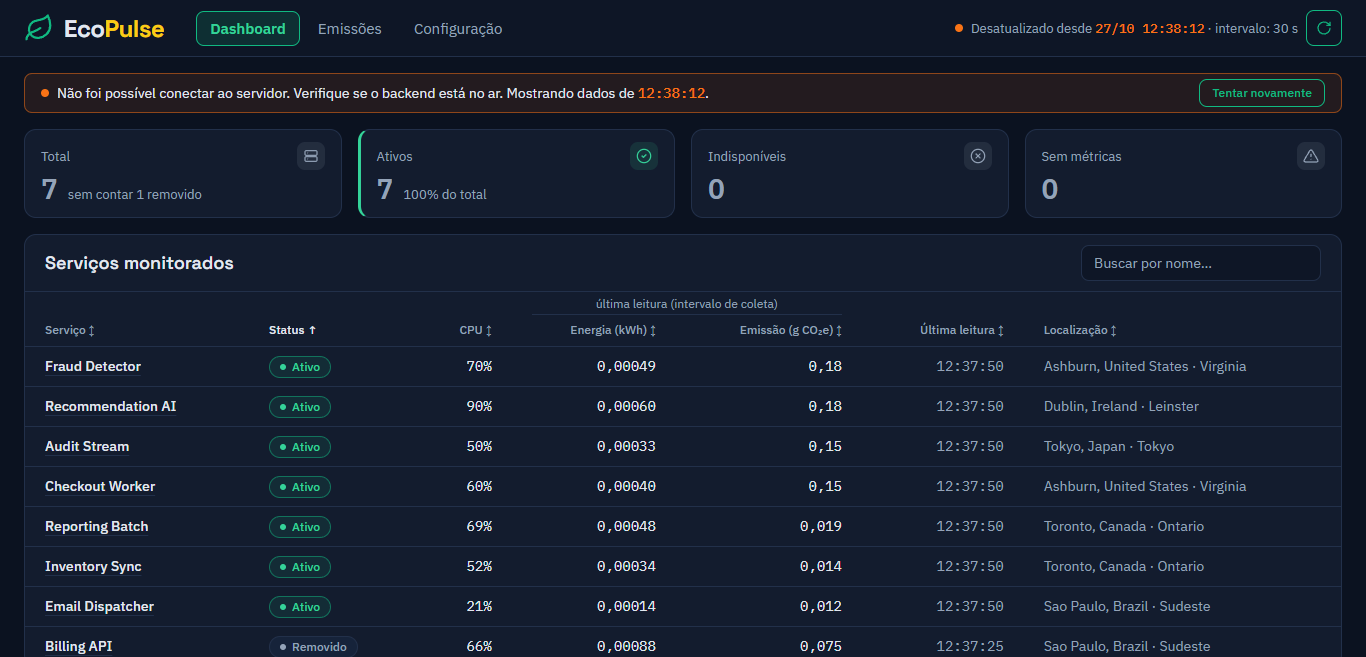
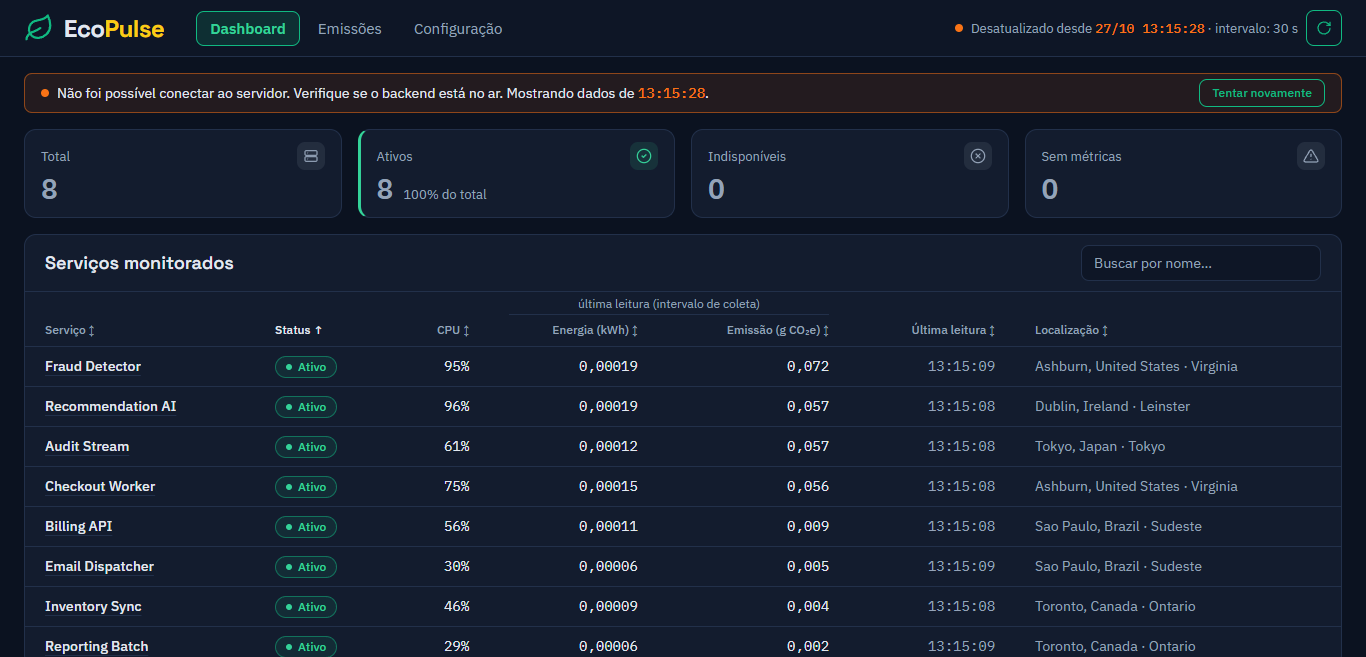
docs(frontend): documenta as casas fixas (#203) [RF09]
frontend/README.md (§ Energia e emissão na tabela) e README raiz (RF07 e
legendas) passam a descrever a resolução fixa no lugar dos 2 algarismos
significativos. Prints refeitos com o backend real em 27/10/2026.

diff --git a/README.md b/README.md
@@ -42,7 +42,7 @@ O desenvolvimento acontece na branch `develop`; cada funcionalidade entra nesta 
 
   ![Tabela de serviços monitorados com o backend real](docs/img/sprint-2-dashboard-backend-real.png)
 
-  _Tabela ligada ao backend real (`docker compose`) em 27/10/2026, numa janela de 1366×657: ordem inicial por gravidade (o serviço removido fica no fim), status logo depois do nome, energia e emissão com 2 algarismos significativos e as 8 linhas visíveis sem rolar (#203)._
+  _Tabela ligada ao backend real (`docker compose`) em 27/10/2026, numa janela de 1366×657: ordem inicial por gravidade, status logo depois do nome, energia e emissão com casas fixas (kWh com 5, g com 3) e as 8 linhas visíveis sem rolar (#203)._
 
 - **RF08, RF09 — Cards de estado dos serviços (#21, PR #202):** acima da tabela, cards com o total de serviços monitorados e quantos estão ativos, indisponíveis e sem métricas, contados na mesma resposta de `GET /api/services` e atualizados no mesmo ciclo. Os removidos ficam fora do total, e a cor só aparece quando há serviços naquele estado. Sem dados, os cards não aparecem; numa falha, mantêm o último dado, apagado, com "Desatualizado desde …".
 
@@ -60,7 +60,7 @@ O desenvolvimento acontece na branch `develop`; cada funcionalidade entra nesta 
 
   ![Dashboard depois de uma atualização com falha](docs/img/sprint-2-atualizacao-automatica.png)
 
-  _Backend parado em 27/10/2026 (mesmo efeito de `docker compose stop backend`): depois de um intervalo, a faixa laranja compacta diz "Mostrando dados de 12:38:12" e oferece **Tentar novamente**, a tabela continua visível e o selo fica laranja ("Desatualizado desde …") (#203). Sem nenhum dado na tela, aparece o aviso de erro grande._
+  _Backend parado em 27/10/2026 (mesmo efeito de `docker compose stop backend`): depois de um intervalo, a faixa laranja compacta diz "Mostrando dados de 13:15:28" e oferece **Tentar novamente**, a tabela continua visível e o selo fica laranja ("Desatualizado desde …") (#203). Sem nenhum dado na tela, aparece o aviso de erro grande._
 
 - **RF01, RF02, RF03, RF04 — Descoberta e coleta periódica (#95, #98, #99):** o backend descobre os serviços no agregador de métricas, consulta `/metrics/{id}` e grava o histórico no PostgreSQL; o _worker_ roda em segundo plano e reconcilia serviços que aparecem, ficam indisponíveis ou voltam a exportar métricas.
 
@@ -76,7 +76,7 @@ O desenvolvimento acontece na branch `develop`; cada funcionalidade entra nesta 
 
 - **RNF05, DW07 — Execução com Docker (#91, #113, #81):** backend, frontend (nginx) e PostgreSQL sobem juntos por `docker compose up --build`, com volume persistente para o banco e todas as variáveis documentadas em [.env.example](.env.example) (#82). Passo a passo no [README](#8-como-executar).
 
-- **RF07 — Cálculo socioambiental por coleta (#133, PR #139):** métricas válidas são convertidas em potência, energia e emissão de CO₂e com o fator regional da API de carbono. Se o fator não estiver disponível, a métrica continua registrada e o cálculo fica indisponível, sem criar valor estimado. As colunas "Energia (kWh)" e "Emissão (g CO₂e)" da tabela mostram o resultado da última coleta, com cerca de 30 s de operação, com 2 algarismos significativos: uma emissão de 0,04 g aparece como 0,040, e não como 0,0 (#203) ([detalhes](frontend/README.md#energia-e-emissão-na-tabela)).
+- **RF07 — Cálculo socioambiental por coleta (#133, PR #139):** métricas válidas são convertidas em potência, energia e emissão de CO₂e com o fator regional da API de carbono. Se o fator não estiver disponível, a métrica continua registrada e o cálculo fica indisponível, sem criar valor estimado. As colunas "Energia (kWh)" e "Emissão (g CO₂e)" da tabela mostram o resultado da última coleta, com cerca de 30 s de operação, em resolução fixa (kWh com 5 casas, g com 3): uma emissão de 0,04 g aparece como 0,040, e não como 0,0 (#203) ([detalhes](frontend/README.md#energia-e-emissão-na-tabela)).
 
 - **RNF01 — Fundo azul, verde nos destaques e logo pulsante (#180, PR #184):** a base da paleta voltou ao azul-escuro e o verde ficou só em ações e destaques (botão vazado nas ações secundárias, item ativo do menu, neon no que pede atenção), em resposta ao feedback da Sprint Review 1. O logo pulsa uma vez a cada atualização bem-sucedida dos dados, como sinal de "ao vivo", e fica parado em falha ou com "reduzir movimento". Regras e contrastes em [docs/identidade-visual.md](docs/identidade-visual.md).
 

diff --git a/frontend/README.md b/frontend/README.md
@@ -54,7 +54,7 @@ Lidas do `.env` da **raiz** do repositório (modelo em `.env.example`; `envDir: 
 ## Energia e emissão na tabela
 
 - As colunas "Energia (kWh)" e "Emissão (g CO₂e)" mostram o resultado da **última coleta** de cada serviço (cerca de 30 s de operação), calculado pelo backend desde o #139. Sem cálculo disponível (por exemplo, com a API de carbono fora), aparece "—", nunca zero.
-- Energia e emissão saem com 2 algarismos significativos (`formatSignificant` em `src/utils/format.ts`), sem arredondar a parte inteira: 0,04 g aparece como **0,040** (antes, "0,0"), 0,5 como 0,50, 0,0014 como 0,0014 e 12,3 como 12. Zero calculado aparece "0"; sem cálculo, continua "—".
+- Energia e emissão têm resolução fixa por coluna (`formatFixed` em `src/utils/format.ts`): kWh com 5 casas e g com 3, nas mesmas unidades da API. As vírgulas ficam alinhadas e o número não muda de tamanho a cada leitura. 0,04 g aparece como **0,040** (antes, "0,0"). Um valor positivo menor que a resolução aparece como "< 0,001" (g) ou "< 0,00001" (kWh), nunca como zero; zero calculado aparece "0,000"; sem cálculo, continua "—".
 - O período da API ("última leitura (intervalo de coleta)") é a legenda sobre essas duas colunas, as únicas a que ele se refere.
 
 ## Página Emissões (#190)
